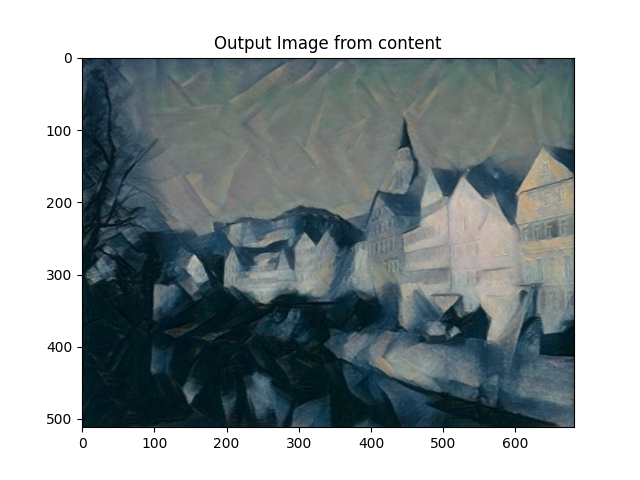
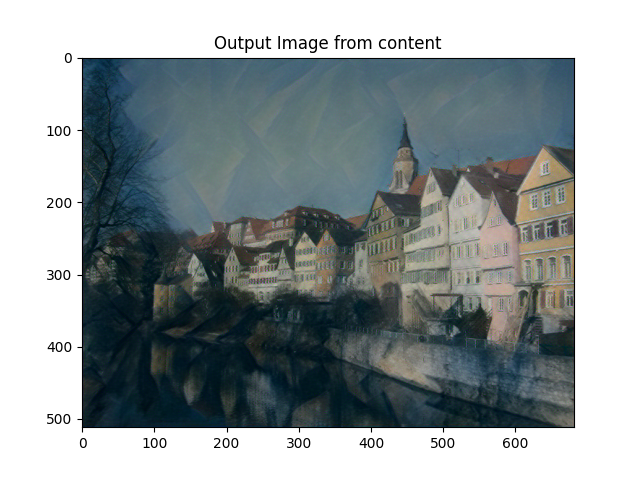
save hw 4, website

diff --git a/HW/hw4/run.py b/HW/hw4/run.py
@@ -19,7 +19,7 @@ module that has content loss and style loss modules correctly inserted.
 """
 
 # seed 
-torch.manual_seed(0)
+torch.manual_seed(3)
 
 # desired depth layers to compute style/content losses :
 content_layers_default = ['conv_3']
@@ -235,16 +235,16 @@ def main(style_img_path, content_img_path):
     # input_img = random noise of the size of content_img on the correct device
     # output = transfer the style from the style_img to the content image
 
-    print("Performing Style Transfer from random noise initialization")
-    time_start_noise = time.time()
-    input_img = torch.randn(content_img.data.size(), device=device)
-    output = run_optimization(cnn, content_img, style_img, input_img, use_content=True, use_style=True, num_steps=1000, style_weight=10000, content_weight=1)
+    # print("Performing Style Transfer from random noise initialization")
+    # time_start_noise = time.time()
+    # input_img = torch.randn(content_img.data.size(), device=device)
+    # output = run_optimization(cnn, content_img, style_img, input_img, use_content=True, use_style=True, num_steps=1000, style_weight=10000, content_weight=1)
     
-    plt.figure()
-    imshow(output, title='Output Image from noise')
-    # adding the name of the style and content image to the path
-    plt.savefig(f"results/style_transfer_noise_{style_img_path.split('/')[-1].split('.')[0]}_{content_img_path.split('/')[-1].split('.')[0]}.png")
-    time_end_noise = time.time()
+    # plt.figure()
+    # imshow(output, title='Output Image from noise')
+    # # adding the name of the style and content image to the path
+    # plt.savefig(f"results/style_transfer_noise_{style_img_path.split('/')[-1].split('.')[0]}_{content_img_path.split('/')[-1].split('.')[0]}.png")
+    # time_end_noise = time.time()
 
     print("Performing Style Transfer from content image initialization")
     # input_img = content_img.clone()
@@ -258,7 +258,7 @@ def main(style_img_path, content_img_path):
     plt.savefig(f"results/style_transfer_content_{style_img_path.split('/')[-1].split('.')[0]}_{content_img_path.split('/')[-1].split('.')[0]}.png")
     time_end_content = time.time()
 
-    print(f"Time taken: {time_end_noise - time_start_noise} seconds")
+    # print(f"Time taken: {time_end_noise - time_start_noise} seconds")
     print(f"Time taken: {time_end_content - time_start_content} seconds")
 
     # ================================================================
